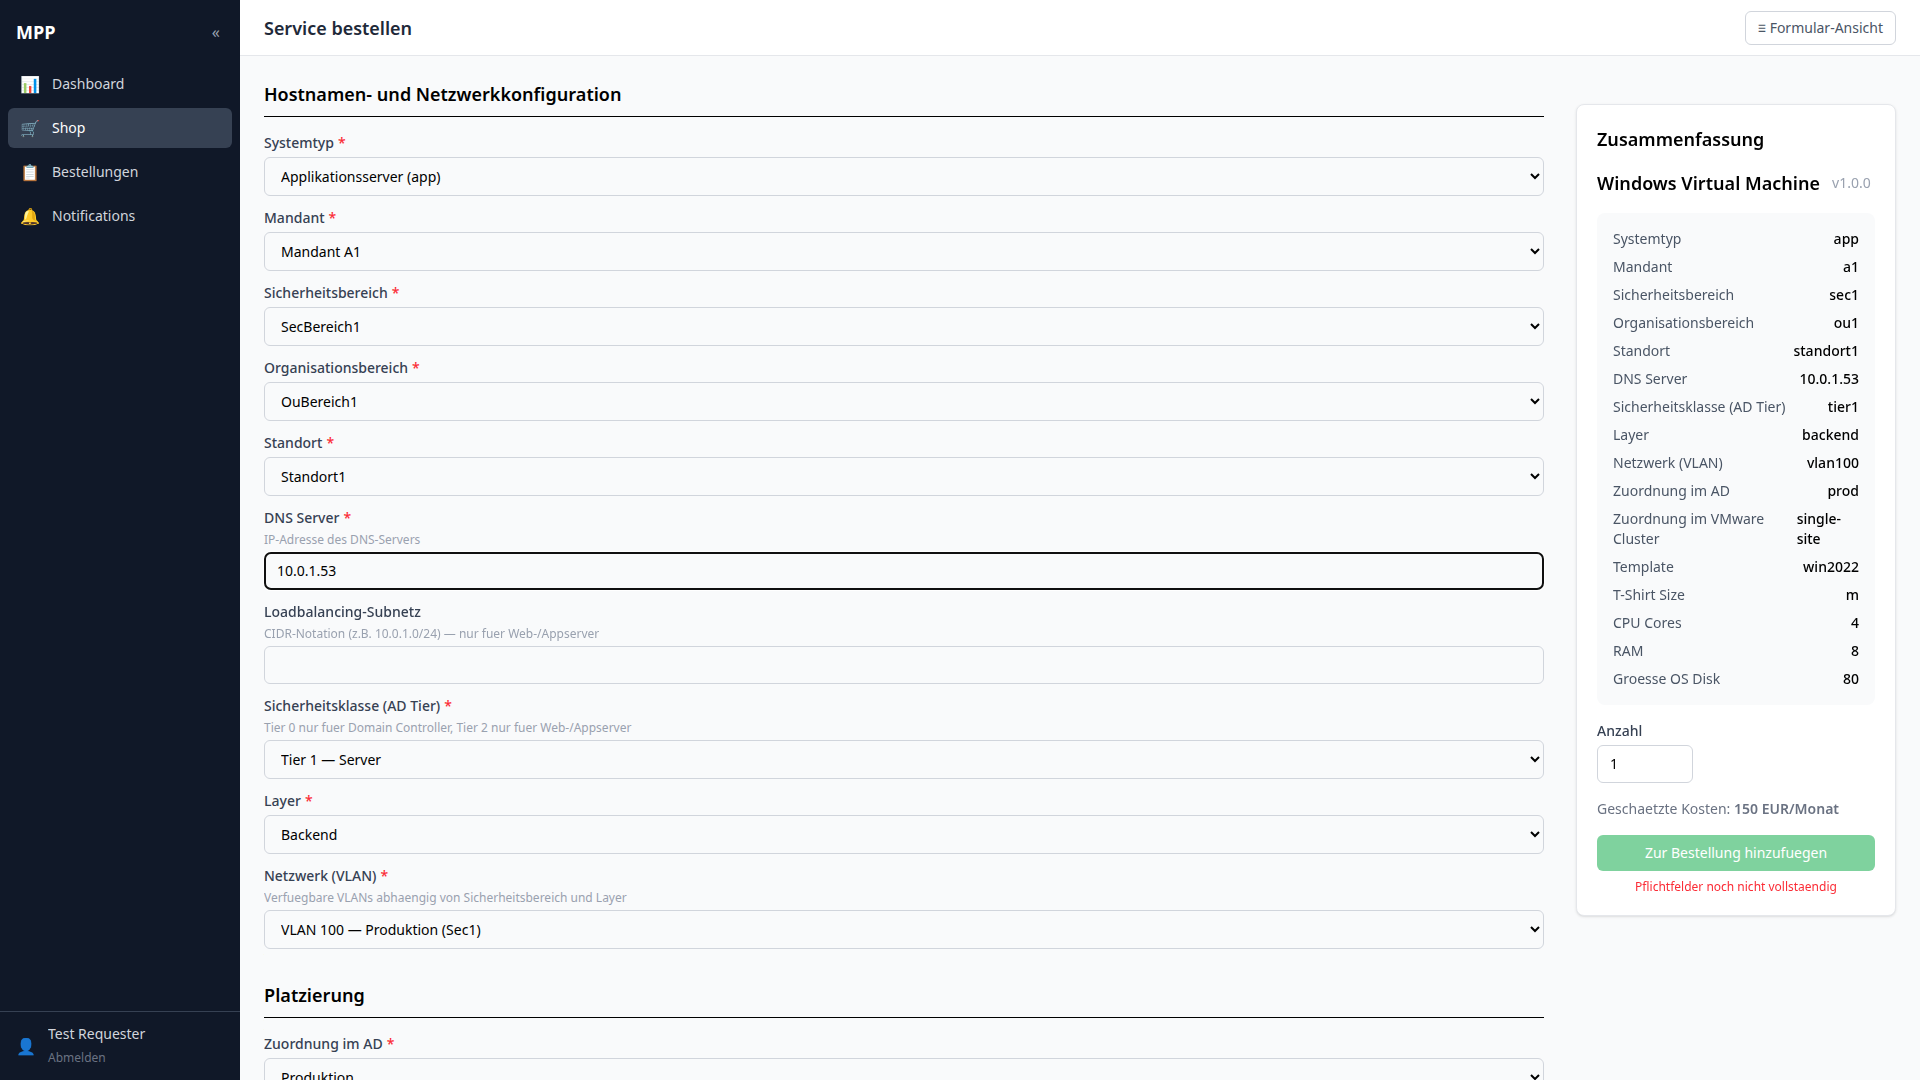
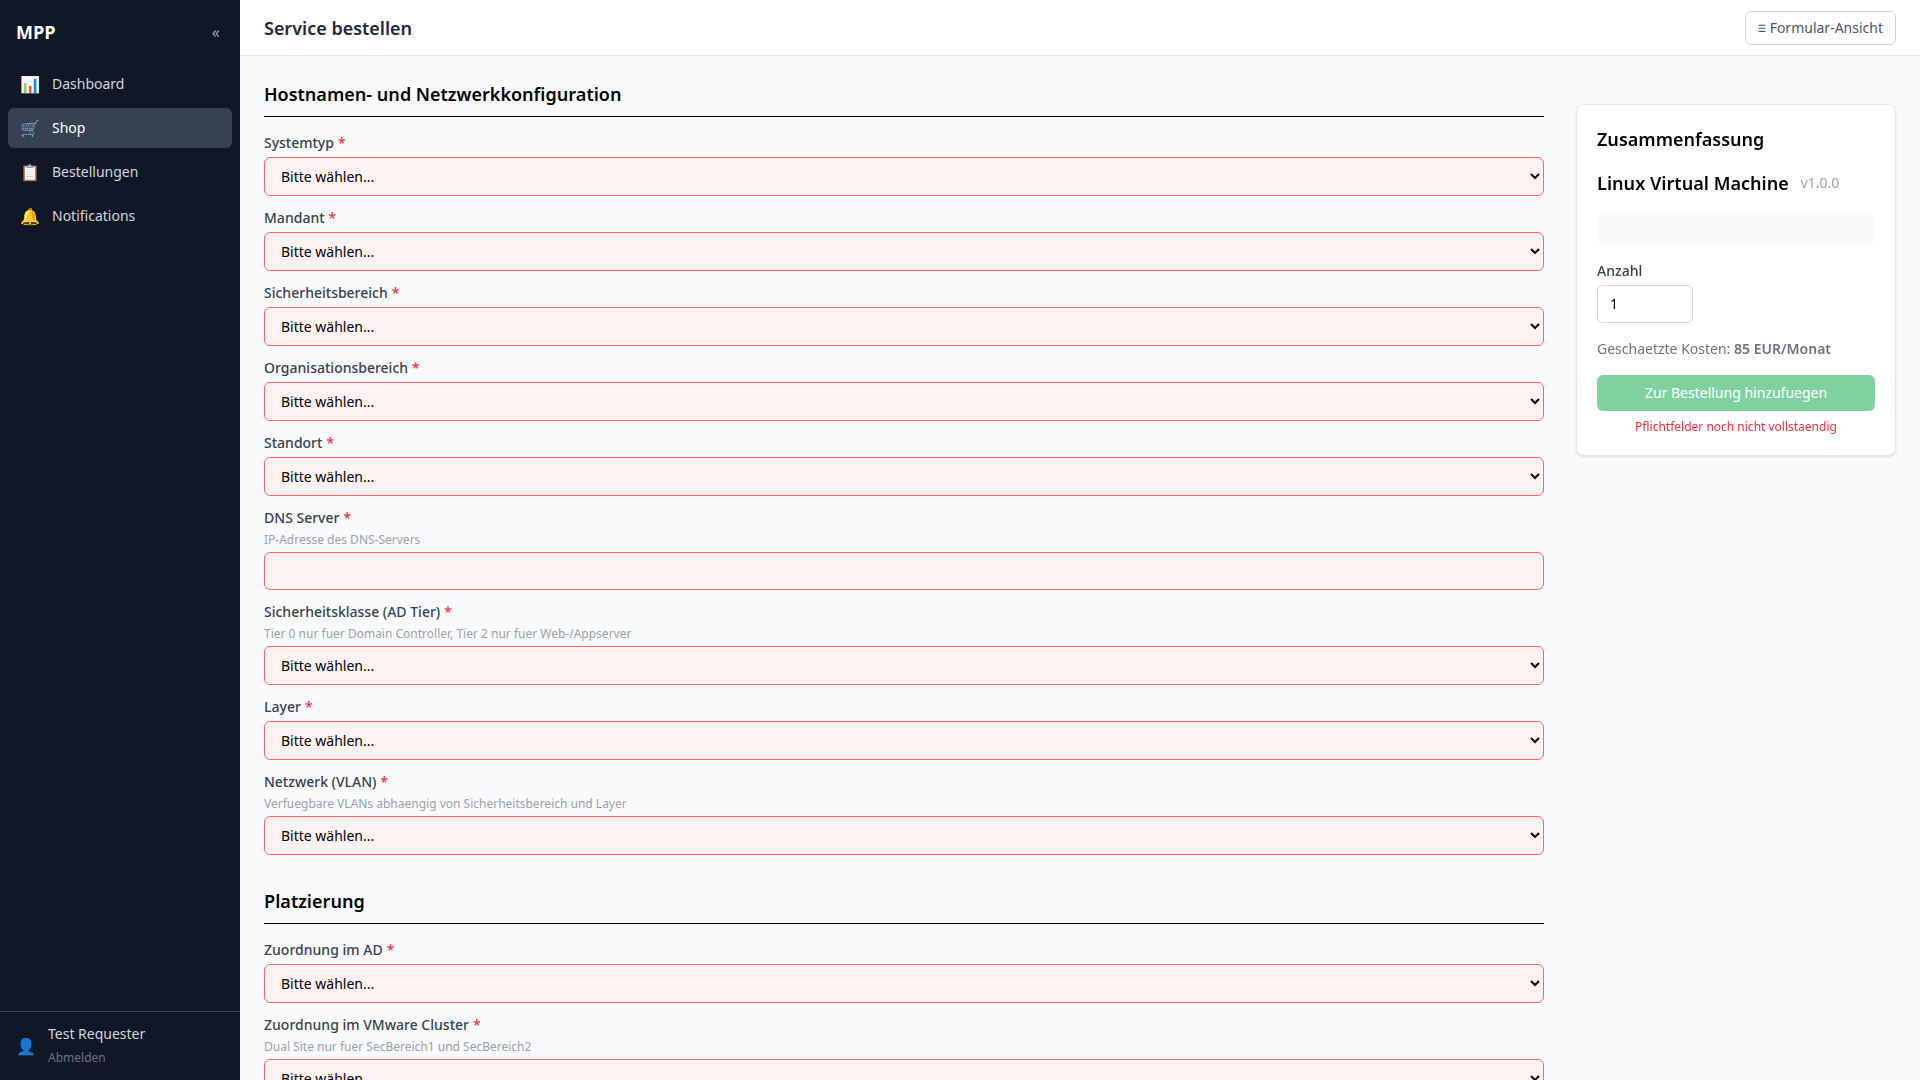
fix(docs): Galerie-Bestellformular links leer / rechts ausgefüllt (gleicher Service)

diff --git a/mpp-docs/docs/referenz/oberflaeche.md b/mpp-docs/docs/referenz/oberflaeche.md
@@ -46,24 +46,25 @@ Kurzbeschreibung, Parameter-Anzahl und Version.
 
 ---
 
-## Bestellformular (Windows VM / Linux VM)
+## Bestellformular (leer / ausgefüllt)
 
 <div class="adb-shot-compare">
   <figure>
     <img src="../../images/screenshots/Screenshot_04_mpp.png"
-         alt="Ausgefülltes Bestellformular für eine Windows-VM: dynamisch aus den Template-Parametern erzeugte Felder (Systemtyp, Mandant, Standort, Netzwerk, OS-Template, T-Shirt-Größe …) mit Live-Zusammenfassung.">
-    <figcaption>Windows VM — ausgefüllt</figcaption>
+         alt="Leeres Bestellformular einer Linux-VM: alle Pflichtfelder auf 'Bitte wählen…', rechts die Zusammenfassung mit Hinweis 'Pflichtfelder noch nicht vollständig'.">
+    <figcaption>Leeres Formular</figcaption>
   </figure>
   <figure>
     <img src="../../images/screenshots/Screenshot_05_mpp.png"
-         alt="Ausgefülltes Bestellformular für eine Linux-VM mit den entsprechenden Parametern und Live-Zusammenfassung der gewählten Werte.">
-    <figcaption>Linux VM — ausgefüllt</figcaption>
+         alt="Ausgefülltes Bestellformular einer Linux-VM mit gewählten Parametern und Live-Zusammenfassung der Werte inkl. geschätzter Kosten.">
+    <figcaption>Ausgefüllt mit Zusammenfassung</figcaption>
   </figure>
 </div>
 
-Das Formular wird dynamisch aus den Template-Parametern erzeugt; eine
-Live-Zusammenfassung zeigt die gewählten Werte vor dem Absenden. Windows- und
-Linux-VM unterscheiden sich in OS-Template und einzelnen Sizing-/Netzwerk-Optionen.
+Das Formular wird dynamisch aus den Template-Parametern erzeugt. **Links** das
+leere Formular mit markierten Pflichtfeldern, **rechts** dasselbe Formular
+ausgefüllt — die Zusammenfassung rechts aktualisiert live die gewählten Werte und
+die geschätzten Kosten vor dem Absenden.
 
 ---
 